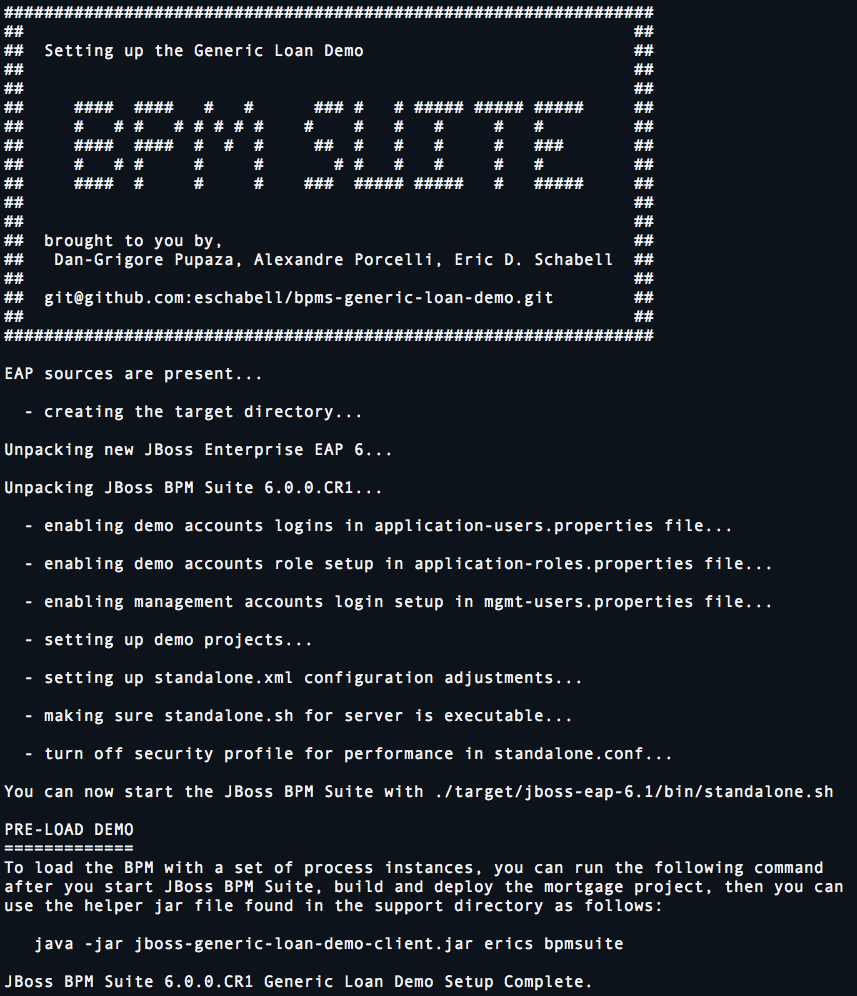
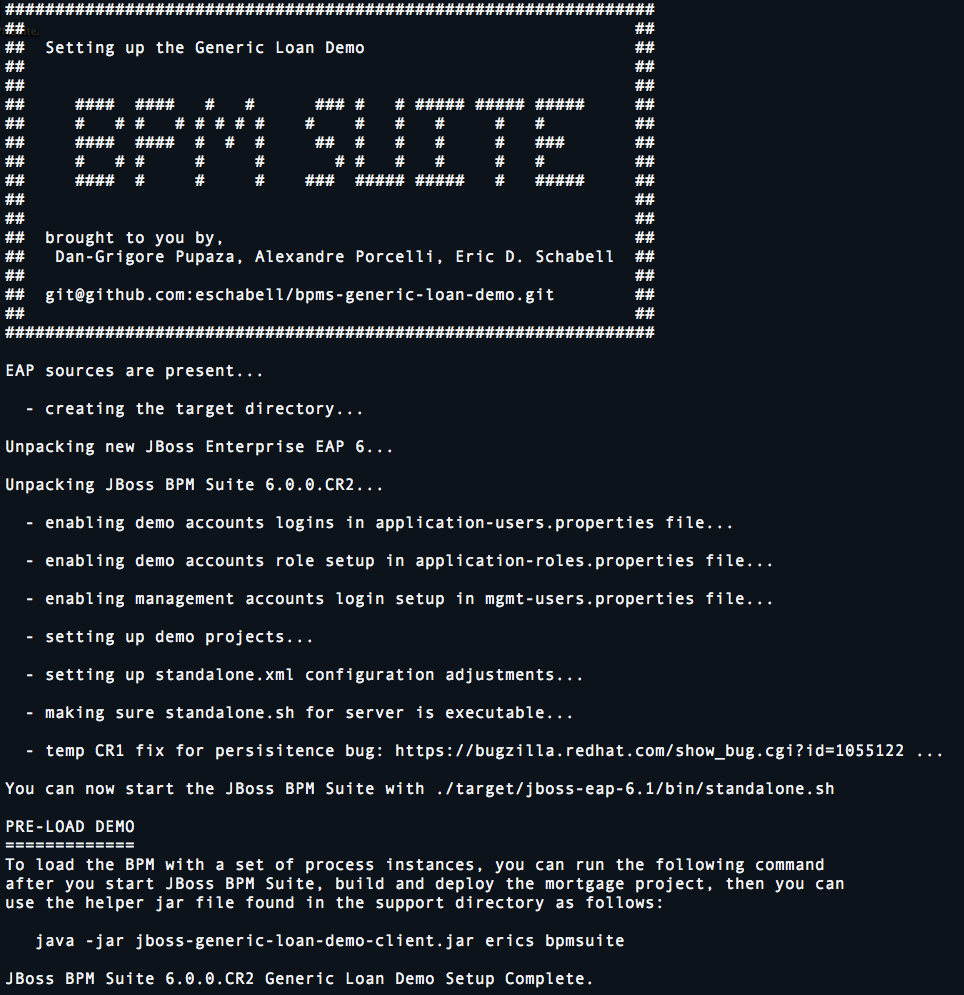
Updated project to CR2 product.

Changed region(s): [[0.0, 0.0, 0.9708, 0.997], [0.7888, 0.4985, 0.8191, 0.5296]]

diff --git a/README.md b/README.md
@@ -59,6 +59,8 @@ Released versions
 
 See the tagged releases for the following versions of the product:
 
+- v0.7 - JBoss BPM Suite 6.0.0.CR2, JBoss EAP 6.1.1, and generic loan demo installed.
+
 - v0.6 - JBoss BPM Suite 6.0.0.CR1, JBoss EAP 6.1.1, and generic loan demo installed, client jar added, and optional mock data population.
 
 - v0.5 - JBoss BPM Suite 6.0.0.ER7, JBoss EAP 6.1.1, mock data populated in Process and Task dashboard, and generic loan demo installed.
